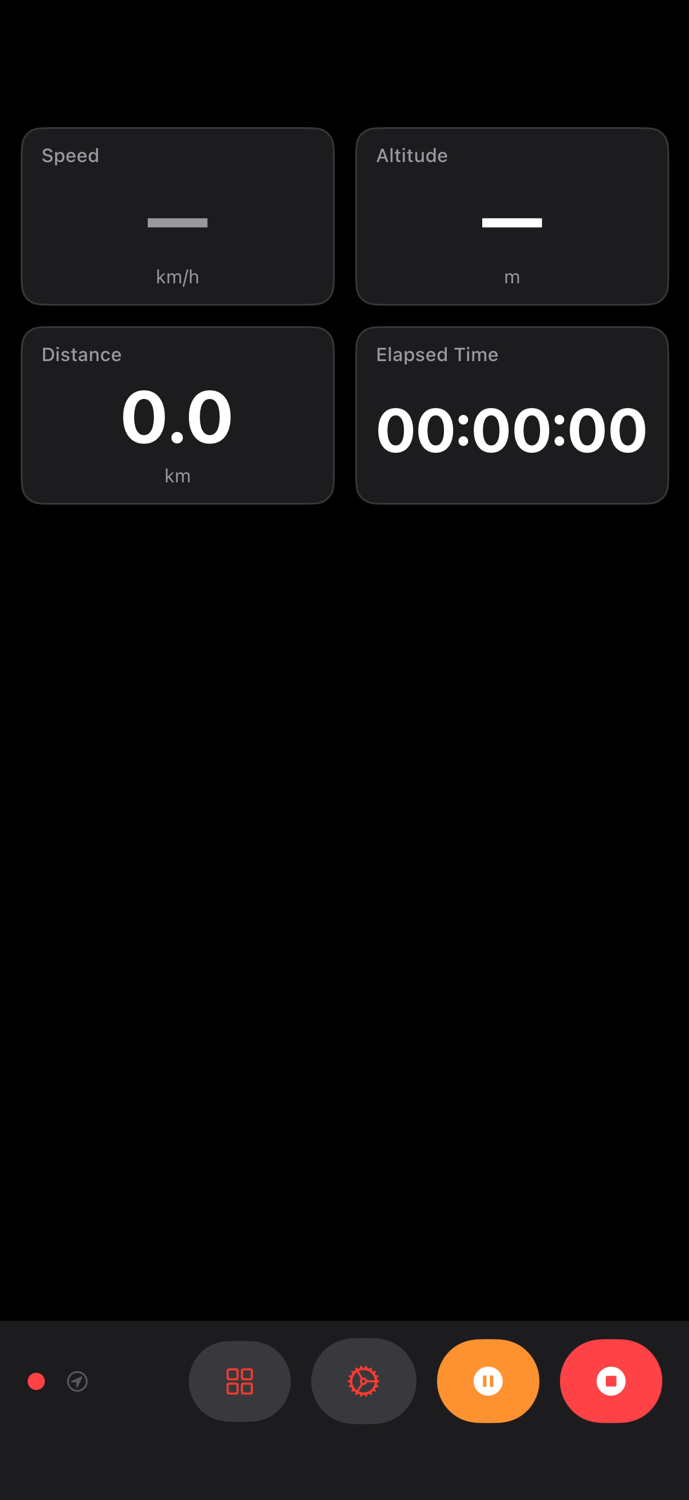
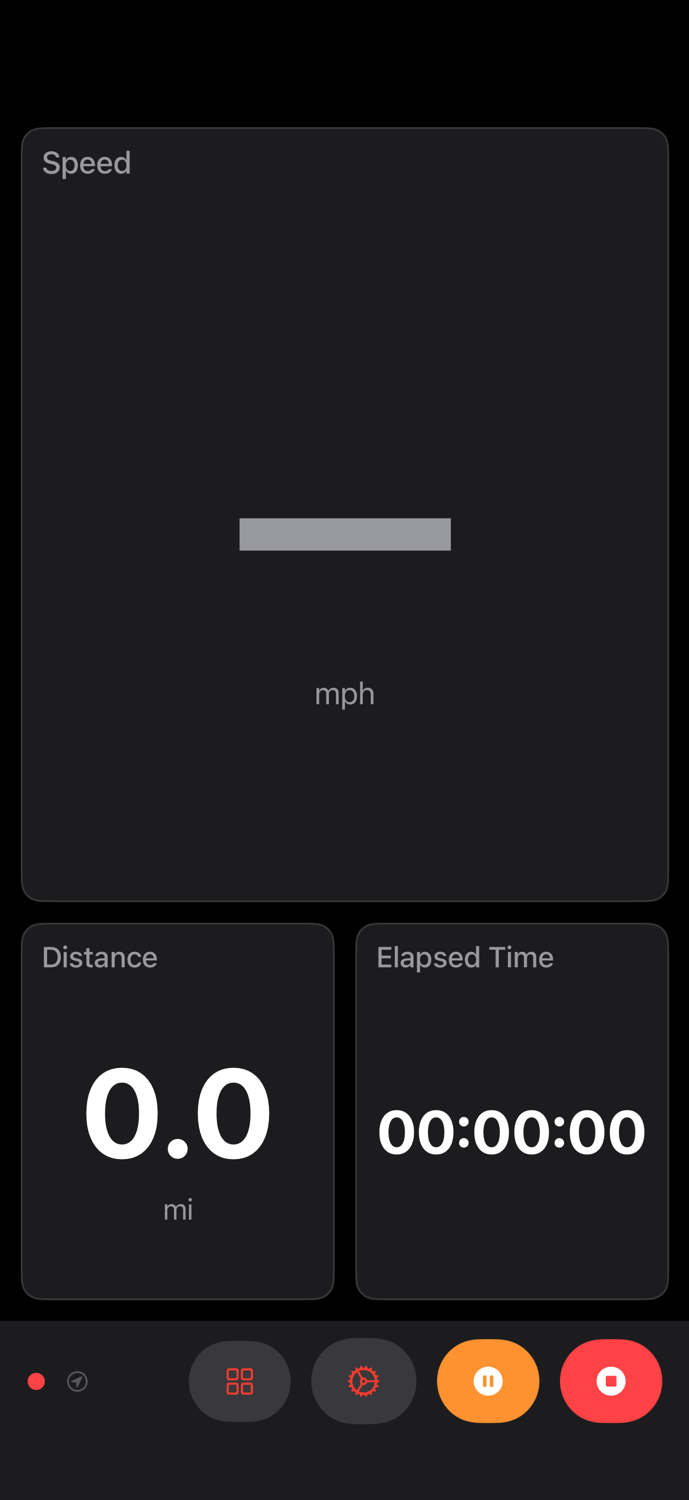
Improve dashboard screenshots: large tiles, mixed, dense, landscape
Replace the four-minimum-size-tile active dashboard screenshot with a
mixed-layout showing a large Speed tile above Distance and Elapsed Time.
Add three new screenshots: two large full-width tiles (dashboard-large-
tiles.png), six dense size-2 tiles (dashboard-dense.png), and a landscape
configuration (dashboard-landscape.png).

README now shows the mixed layout as the primary screenshot and the
landscape layout as a second example. dashboard-customization.md gains
the large-tiles and dense screenshots immediately after the tile sizes
table to illustrate what different sizes look like in practice.

diff --git a/docs/getting-started/dashboard-customization.md b/docs/getting-started/dashboard-customization.md
@@ -117,6 +117,10 @@ Tiles have seven sizes. Each size spans a different number of grid cells:
 
 Size 1 fills one cell. Size 7 fills the entire portrait grid.
 
+![Two large tiles on the dashboard: Speed at Size 4 (full-width, 3 rows tall) above Altitude at Size 4, filling the entire screen](../../assets/screenshots/dashboard-large-tiles.png)
+
+![Six tiles at Size 2 filling the portrait grid: Speed, Altitude, Distance, Elapsed Time, Grade, and Heading](../../assets/screenshots/dashboard-dense.png)
+
 Each tile on the canvas shows a **shrink button (−)** and an **expand button (+)**. Tap them to step the tile one size smaller or larger. Buttons are dimmed when the tile is already at its minimum or maximum size.
 
 ### Reflow on resize

diff --git a/README.md b/README.md
@@ -7,7 +7,9 @@
 - 21 configurable metrics across up to 12 tiles per page
 - Barometric and GPS altitude fusion for accurate elevation data
 
-![77 Metrics active drive dashboard showing Speed, Altitude, Distance, and Elapsed Time tiles in dark mode](assets/screenshots/active-dashboard.png)
+![77 Metrics active drive dashboard: a large Speed tile occupying most of the screen with Distance and Elapsed Time tiles below, in dark mode](assets/screenshots/active-dashboard.png)
+
+![77 Metrics landscape dashboard showing six metrics — Speed, Altitude, Distance, Elapsed Time, Grade, and Heading — filling the full-width grid in dark mode](assets/screenshots/dashboard-landscape.png)
 
 ---
 

diff --git a/docs/getting-started/first-drive.md b/docs/getting-started/first-drive.md
@@ -62,7 +62,7 @@ A slim status bar runs along the bottom of the screen in portrait, or on the rig
 | GPS icon (slashed) | Weak signal or no fix |
 | Yellow triangle | Drive checkpoint could not be saved to disk |
 
-![Active drive screen showing four metric tiles — Speed, Altitude, Distance, and Elapsed Time — with recording controls at the bottom](../../assets/screenshots/active-dashboard.png)
+![Active drive screen showing a large Speed tile at the top, with Distance and Elapsed Time tiles below, and recording controls at the bottom](../../assets/screenshots/active-dashboard.png)
 
 ### Controls
 
